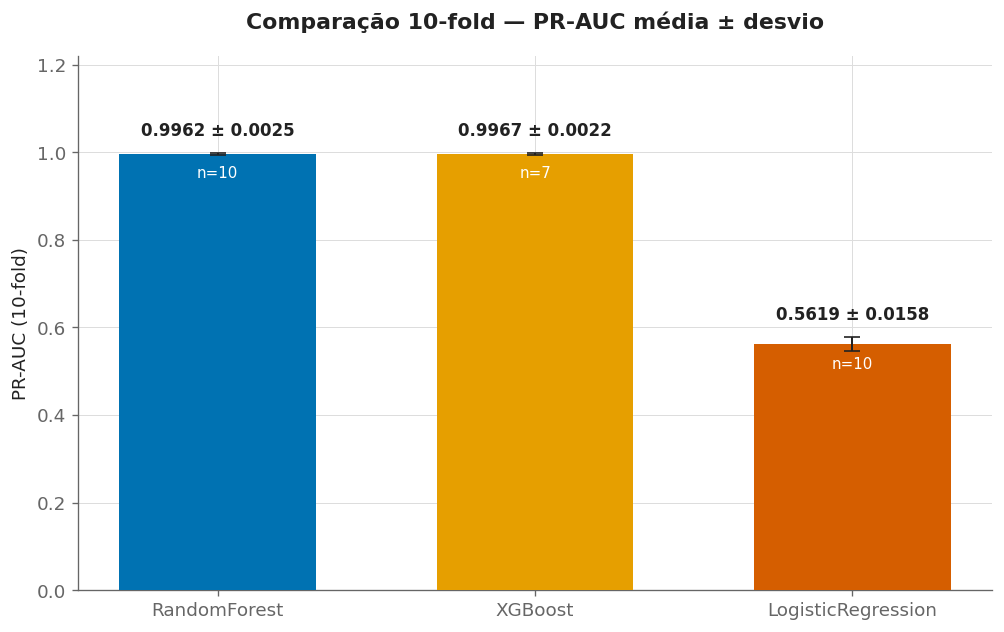
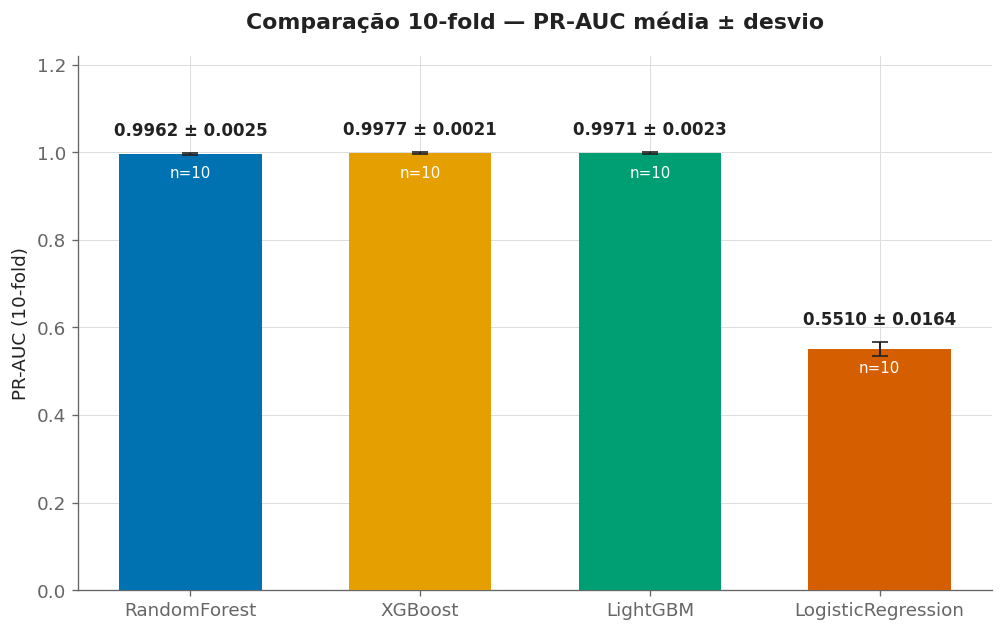
docs(fraud-detection): corrige narrativa de PR-AUC e regenera graficos
Alinha a vitrine com a correcao do repo privado. O LightGBM/XGBoost
degeneravam por config default de GBDT (nao "bug de ambiente" como dizia a
versao anterior); com tuning, os 4 modelos sao estaveis local e no Kaggle.

- 10-fold: XGBoost 0.9977, LightGBM 0.9971, RF 0.9962 (4 modelos limpos)
- learning curve: as 3 arvores mantem PR-AUC ate 31 fraudes no treino
- quadrant: concordancia 86%->96.8% (o 86% era artefato do LightGBM ruim)
- caveat reescrito como licao de tuning de GBDT (PT + EN)
- graficos regenerados: cv10, learning curves, temporal

Changed region(s): [[0.0926, 0.1804, 0.9572, 0.9921]]

diff --git a/fraud-detection/README.md b/fraud-detection/README.md
@@ -63,9 +63,10 @@ F1 0.9800 - precisao 0.96 / recall 1.00 (1.643 fraudes). Estavel entre folds (RO
 
 Learning curve com **conjunto de teste fixo** (1,59M linhas): varia-se **apenas** o tamanho do
 treino (subamostragem estratificada, 3 seeds) para isolar o efeito da quantidade de dados.
-Resultado: o **Random Forest mantem PR-AUC ~0,997 treinando com apenas ~30 fraudes** — o sinal e
-aprendivel com pouquissimos exemplos. As 8.213 fraudes / 6,3M linhas sao **massivamente
-redundantes**, com impacto direto em custo e latencia de re-treino em producao.
+Resultado: os **tres modelos de arvore (Random Forest, XGBoost, LightGBM) mantem PR-AUC ~0,97–0,999
+treinando com apenas ~30 fraudes** — o sinal e aprendivel com pouquissimos exemplos. As 8.213
+fraudes / 6,3M linhas sao **massivamente redundantes**, com impacto direto em custo e latencia de
+re-treino em producao.
 
 ![Learning curve — PR-AUC vs numero de fraudes no treino](assets/learning_curve_vs_fraud.png)
 
@@ -73,14 +74,17 @@ redundantes**, com impacto direto em custo e latencia de re-treino em producao.
 
 ### Robustez — validacao cruzada 10-fold
 
-O 10-fold confirma o 5-fold: **Random Forest 0,9962** e **XGBoost 0,9967**.
+O 10-fold confirma o 5-fold nos quatro modelos: **XGBoost 0,9977 ± 0,0021**, LightGBM 0,9971 ± 0,0023,
+Random Forest 0,9962 ± 0,0025 e Logistic Regression 0,5510 ± 0,0164.
 
 ![Comparacao 10-fold entre modelos](assets/cv10_comparison.png)
 
-> Nota de rigor: o LightGBM apresentou uma incompatibilidade de versao **no ambiente local**
-> (excluido do 10-fold acima); seu resultado foi confirmado **no Kaggle** (PR-AUC 0,9967, tabela
-> acima), e o XGBoost teve 3 folds com falha numerica local (media sobre os 7 validos, n=7).
-> RandomForest e LogisticRegression rodaram limpos nos dois ambientes.
+> Licao de tuning de GBDT: XGBoost e LightGBM exigem hiperparametros adequados para o
+> desbalanceamento extremo. Os *defaults* das bibliotecas (XGBoost 100 arvores/lr=0,3; LightGBM
+> `is_unbalance=True`) **desestabilizam a PR-AUC** — folds inteiros colapsam para ~0,01–0,05
+> enquanto o ROC-AUC permanece ~0,9 e **esconde** a falha. Com os configs tunados (500 arvores,
+> lr=0,05, regularizacao; `class_weight="balanced"`) os quatro modelos sao estaveis — verificado
+> **local e no Kaggle**.
 
 ### Validacao temporal — o modelo generaliza para o futuro?
 
@@ -169,9 +173,9 @@ Avaliacao no TESTE hold-out (1,27M)   ->   PR-AUC 0,9987
 ### Quadrant Analysis (concordancia entre modelos)
 
 Concordancia/discordancia entre os 4 modelos via predicoes out-of-fold (5-fold).
-**Resultado:** os 4 modelos concordam em **~86%** das transacoes; os **14% de discordancia
-concentram os casos dificeis** (mais fraude que a taxa base). A zona de desacordo e onde vale
-priorizar revisao humana.
+**Resultado:** com o config tunado, os 4 modelos sao **altamente concordantes (~97%)**; a pequena
+**zona de discordancia (~3%) e modestamente enriquecida em fraude (~1,7x a taxa base)** — um sinal
+secundario para priorizar revisao humana.
 
 ### Queue Emulation (latencia e throughput)
 

diff --git a/fraud-detection/README.en.md b/fraud-detection/README.en.md
@@ -55,10 +55,10 @@ F1 0.9800 · precision 0.96 / recall 1.00 (1,643 frauds). Stable across folds (R
 ### Data efficiency — how many frauds does the model really need?
 
 Learning curve with a **fixed test set** (1.59M rows): only the **training** size varies
-(stratified subsampling, 3 seeds) to isolate the effect of data volume. Result: **Random Forest
-keeps PR-AUC ~0.997 training on just ~30 frauds** — the signal is learnable from very few examples.
-The 8,213 frauds / 6.3M rows are **massively redundant**, with direct impact on retraining cost
-and latency in production.
+(stratified subsampling, 3 seeds) to isolate the effect of data volume. Result: the **tree models
+(Random Forest, XGBoost, LightGBM) keep PR-AUC ~0.97–0.999 training on just ~30 frauds** — the
+signal is learnable from very few examples. The 8,213 frauds / 6.3M rows are **massively redundant**,
+with direct impact on retraining cost and latency in production.
 
 ![Learning curve — PR-AUC vs number of frauds in training](assets/learning_curve_vs_fraud.png)
 
@@ -66,14 +66,16 @@ and latency in production.
 
 ### Robustness — 10-fold cross-validation
 
-10-fold confirms 5-fold: **Random Forest 0.9962** and **XGBoost 0.9967**.
+10-fold confirms the 5-fold comparison across all four models: **XGBoost 0.9977 ± 0.0021**,
+LightGBM 0.9971 ± 0.0023, Random Forest 0.9962 ± 0.0025, Logistic Regression 0.5510 ± 0.0164.
 
 ![10-fold model comparison](assets/cv10_comparison.png)
 
-> Rigor note: LightGBM had a version incompatibility **in the local environment** (excluded from
-> the 10-fold above); its result was confirmed **on Kaggle** (PR-AUC 0.9967, table above), and
-> XGBoost had 3 folds with local numerical failure (mean over the 7 valid ones, n=7).
-> RandomForest and LogisticRegression ran clean in both environments.
+> GBDT tuning lesson: XGBoost and LightGBM require proper hyperparameters for extreme imbalance.
+> The library defaults (XGBoost 100 trees/lr=0.3; LightGBM `is_unbalance=True`) **destabilize
+> PR-AUC** — entire folds collapse to ~0.01–0.05 while ROC-AUC stays ~0.9 and **hides** it. With the
+> tuned configs (500 trees, lr=0.05, regularization; `class_weight="balanced"`) all four models are
+> stable — verified **locally and on Kaggle**.
 
 ### Temporal validation — does the model generalize to the future?
 
@@ -165,8 +167,9 @@ Evaluation on the hold-out TEST (1.27M)   ->   PR-AUC 0.9987
 ### Quadrant Analysis (model agreement)
 
 Agreement/disagreement across the 4 models via out-of-fold predictions (5-fold).
-**Result:** the 4 models agree on **~86%** of transactions; the **14% disagreement zone
-concentrates the hard cases** (more fraud than the base rate) — that's where human review pays off.
+**Result:** with tuned configs the 4 models are **highly concordant (~97% agreement)**; the small
+**~3% disagreement zone is modestly fraud-enriched (~1.7x the base rate)** — a secondary signal for
+prioritizing human review.
 
 ### Queue Emulation (latency and throughput)
 
